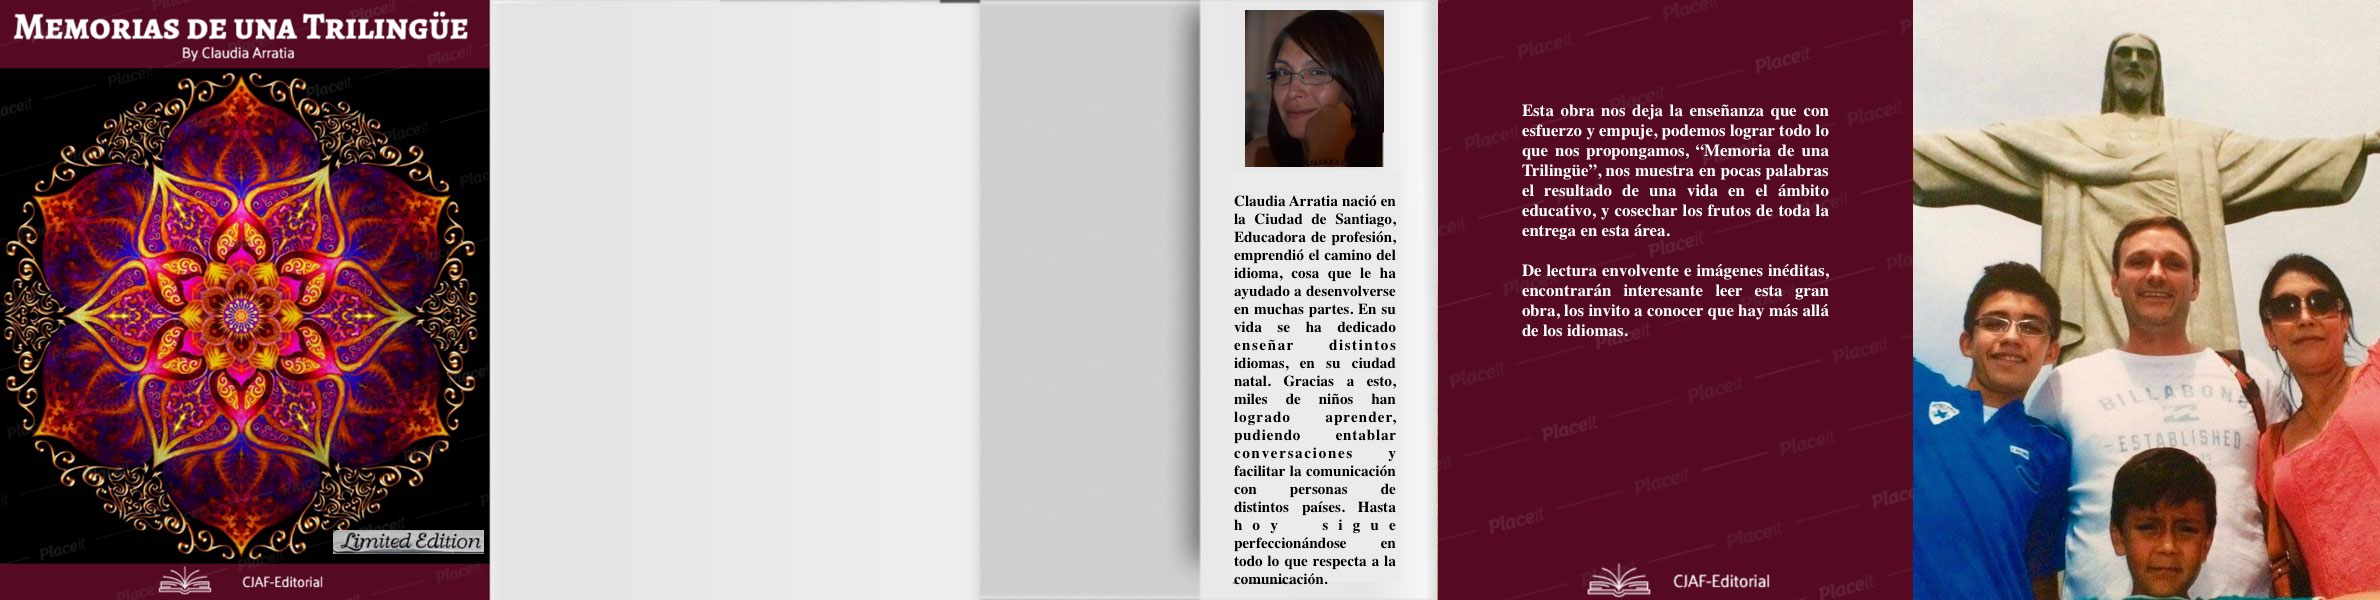
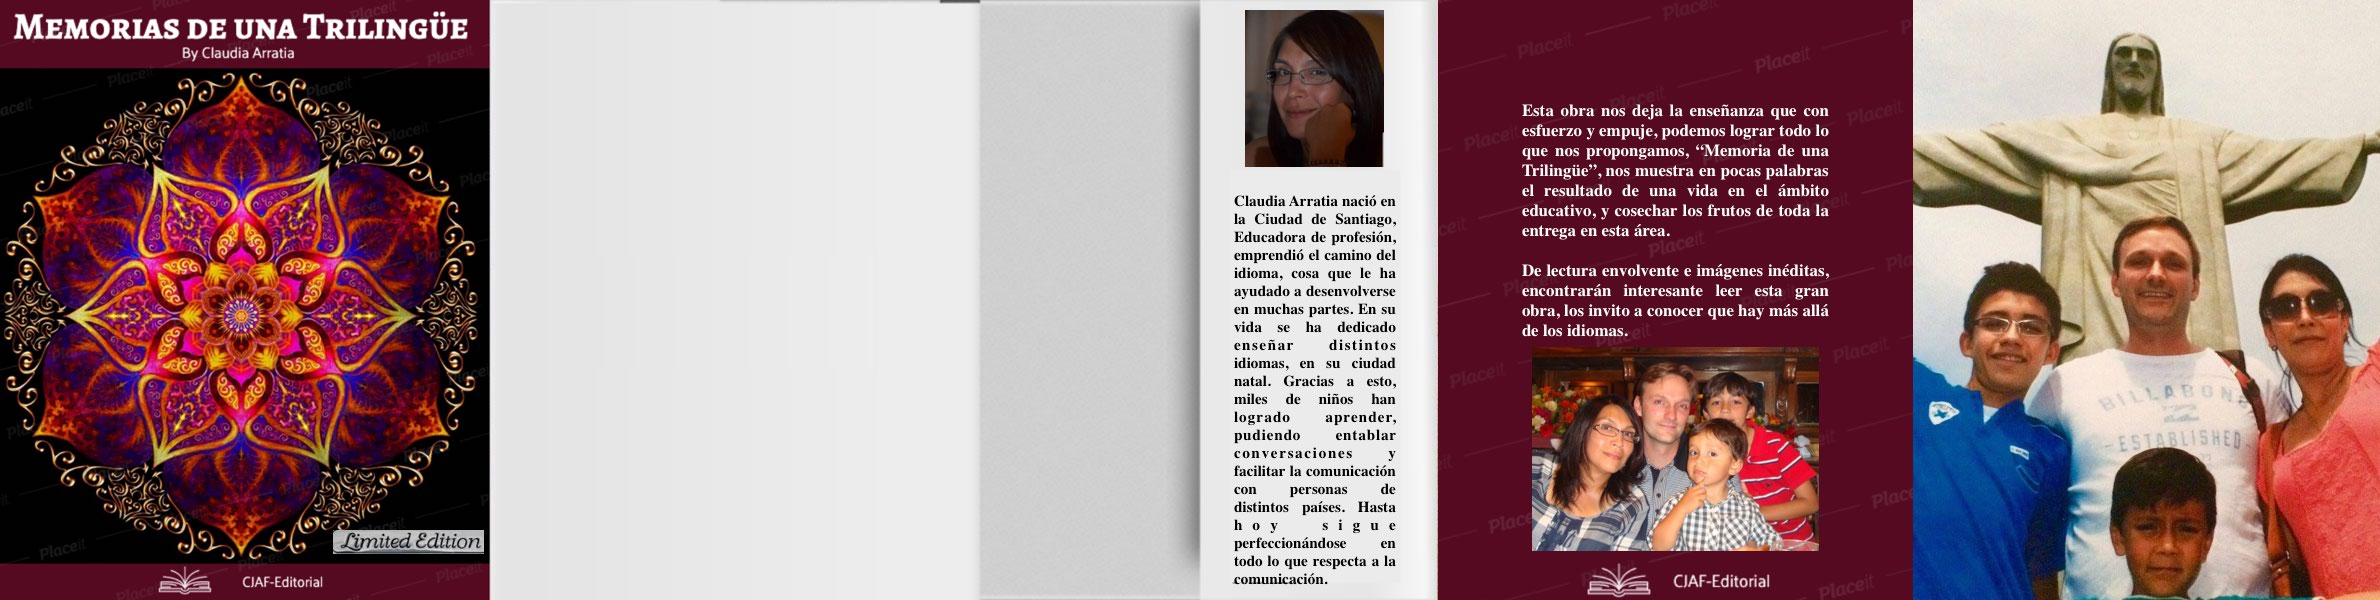
book final

Changed region(s): [[0.6218, 0.57, 0.7773, 0.93]]

diff --git a/src/css/Content.css b/src/css/Content.css
@@ -174,8 +174,15 @@ h2{
     width: 180px;
     height: 150px;
     border-radius: 10%;
+    margin-left: 10%;
   }
 
+  .imgLoveFam{
+    width: 350px;
+    height: 350px;
+    border-radius: 40%;
+    margin-top: 120px;
+  }
   .softKills{
     width: 70px;
     height: 70px;

diff --git a/src/pages/page6.html b/src/pages/page6.html
@@ -1,0 +1,7 @@
+<div class="parraf12">
+<table>
+    <tr>
+     <td class="softKills"><img src="./pics/crisd.png" class="imgLoveFam"/></td>
+    </tr>
+</table>
+</div>
